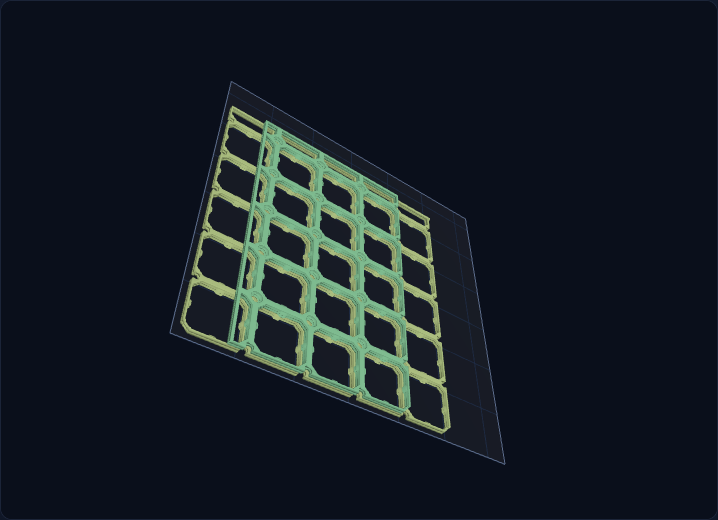
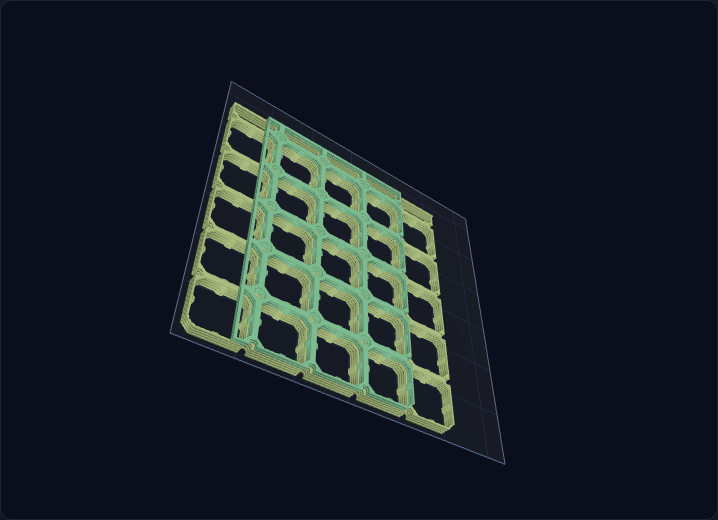
Canonicalize printable edge parts so identical 5x5 and 3x5 plates stack in one orientation

Changed region(s): [[0.2451, 0.1846, 0.6435, 0.8308]]

diff --git a/index.html b/index.html
@@ -1498,20 +1498,33 @@
   }
 
   function platePrintItems(layout) {
+    const unit = state.unit;
+    const canonical = new Map();
+    layout.pieces.forEach(function (p) {
+      if (!p.ext) return;
+      const key = sizeKey(p.w, p.h);
+      if (!canonical.has(key)) {
+        canonical.set(key, { left: p.ext.left, right: p.ext.right, top: p.ext.top, bottom: p.ext.bottom });
+      }
+    });
     return layout.pieces.map(function (p, i) {
+      const sides = p.ext ? canonical.get(sizeKey(p.w, p.h)) : null;
+      const printW = sides ? p.w * unit + sides.left + sides.right : p.w * unit;
+      const printH = sides ? p.h * unit + sides.top + sides.bottom : p.h * unit;
       return {
         id: i, a: p.w, b: p.h,
         cw: p.w,
         ch: p.h,
-        w: p.ext ? p.ext.wmm : p.w * state.unit,
-        h: p.ext ? p.ext.hmm : p.h * state.unit,
-        gx: p.ext ? p.ext.left : 0,
-        gy: p.ext ? p.ext.top : 0,
-        el: p.ext ? p.ext.left : 0,
-        er: p.ext ? p.ext.right : 0,
-        et: p.ext ? p.ext.top : 0,
-        eb: p.ext ? p.ext.bottom : 0,
+        w: printW,
+        h: printH,
+        gx: sides ? sides.left : 0,
+        gy: sides ? sides.top : 0,
+        el: sides ? sides.left : 0,
+        er: sides ? sides.right : 0,
+        et: sides ? sides.top : 0,
+        eb: sides ? sides.bottom : 0,
         piece: p,
+        printKey: sides ? edgeKeyFromSides(p.w, p.h, sides) : null,
         thickness: PLATE_THICKNESS[state.type] || 6.2,
         fixed: !!p.ext
       };
@@ -1593,6 +1606,36 @@
       }
     }
     return best;
+  }
+
+  function listLayerPlacements(stack, item, allowRotate) {
+    const unit = state.unit;
+    const candidates = allowRotate ? [0, 1, 2, 3, 4, 5, 6, 7] : [0];
+    const list = [];
+    for (let ci = 0; ci < candidates.length; ci++) {
+      const sym = candidates[ci];
+      const b = transformBounds(coreBounds(item), sym);
+      const rcw = (b.r - b.l) / unit;
+      const rch = (b.b - b.t) / unit;
+      if (rcw > stack.cw + 1e-6 || rch > stack.ch + 1e-6) continue;
+      const rangeX = Math.ceil(stack.cw) + 2;
+      const rangeY = Math.ceil(stack.ch) + 2;
+      const previous = stack.items.length ? stack.items[stack.items.length - 1] : null;
+      const below = previous ? { x: previous.dx, y: previous.dy, w: previous.w, h: previous.h } : { x: 0, y: 0, w: stack.w, h: stack.h };
+      for (let kx = -rangeX; kx <= rangeX; kx++) {
+        for (let ky = -rangeY; ky <= rangeY; ky++) {
+          const cx = stack.coreX + kx * unit;
+          const cy = stack.coreY + ky * unit;
+          const left = cx + b.l, right = cx + b.r;
+          const top = cy + b.t, bottom = cy + b.b;
+          if (left < -1e-6 || right > stack.w + 1e-6 || top < -1e-6 || bottom > stack.h + 1e-6) continue;
+          if (left < below.x - 1e-6 || right > below.x + below.w + 1e-6 || top < below.y - 1e-6 || bottom > below.y + below.h + 1e-6) continue;
+          const score = Math.pow((left + right) / 2 - stack.w / 2, 2) + Math.pow((top + bottom) / 2 - stack.h / 2, 2) + sym * 0.0001 + (kx + ky) * 0.00001;
+          list.push({ sym: sym, dx: left, dy: top, w: right - left, h: bottom - top, gx: -b.l, gy: -b.t, kx: kx, ky: ky, score: score });
+        }
+      }
+    }
+    return list.sort(function (a, b) { return a.score - b.score; });
   }
 
   function layerFromBest(item, best) {
@@ -2089,7 +2132,7 @@
               let z = 0;
               stack.items.forEach(function (pi) {
                 const piece = pi.item.piece;
-                const entry = piece.ext ? edgeMeshCache.get(edgeKey(piece)) : lib.get(sizeKey(piece.w, piece.h));
+                const entry = piece.ext ? edgeMeshCache.get(pi.item.printKey) : lib.get(sizeKey(piece.w, piece.h));
                 if (!entry) return;
                 const pw = pi.w || (pi.coreRot ? pi.item.h : pi.item.w);
                 const ph = pi.h || (pi.coreRot ? pi.item.w : pi.item.h);
@@ -2499,7 +2542,11 @@
 
   function edgeKey(piece) {
     const e = piece.ext;
-    return "edge:" + state.type + ":" + sizeKey(piece.w, piece.h) + ":" + round1(e.left) + "," + round1(e.right) + "," + round1(e.top) + "," + round1(e.bottom);
+    return edgeKeyFromSides(piece.w, piece.h, e);
+  }
+
+  function edgeKeyFromSides(w, h, e) {
+    return "edge:" + state.type + ":" + sizeKey(w, h) + ":" + round1(e.left) + "," + round1(e.right) + "," + round1(e.top) + "," + round1(e.bottom);
   }
 
   async function getPlateByKey(type, key) {
@@ -2655,7 +2702,7 @@
           stack.items.forEach(function (pi, layerIndex) {
             const piece = pi.item.piece;
             const baseKey = sizeKey(piece.w, piece.h);
-            const key = piece.ext ? edgeKey(piece) : baseKey;
+            const key = piece.ext ? pi.item.printKey : baseKey;
             const entry = piece.ext ? edgeMeshCache.get(key) : lib.get(baseKey);
             if (!entry) throw new Error("Plaque non chargée : " + key);
             if (!meshIndex.has(key)) {
@@ -3152,6 +3199,9 @@
     update: update,
     build3mfBlob: build3mfBlob,
     chooseLayerPlacement: chooseLayerPlacement,
+    makeBaseStack: makeBaseStack,
+    layerFromBest: layerFromBest,
+    listLayerPlacements: listLayerPlacements,
     edgeMeshes: edgeMeshCache,
     zipEntries: zipEntries,
     libraries: libraries

diff --git a/README.md b/README.md
@@ -22,7 +22,7 @@ Je précise que j'aime le système MultiBuild/MultiBoard et que ce n'est **pas u
 - Aperçu 2D avec le motif réel, les dimensions et les bords.
 - **Aperçu 3D** des maillages STL réels dans l'app (rotation/zoom), sans passer par Orca.
 - **Clips adhésifs S** (VHB Bolt-Lock) : choix « Aucun clip » / « Clips adhésifs S », comptage automatique **Quad / Dual / Single** aux angles des plaques, repères dans l'aperçu 2D, maillages réels dans la 3D, et ajout automatique sur les plateaux d'impression.
-- **Empilement « Ironing Stack »** : les plaques sont empilées dans le 3MF, la plus grande en bas, les plus petites au-dessus, avec un **espacement réglable (0,2 mm par défaut)**. L’algorithme cherche parmi les 8 symétries la position qui **conserve la grille de 50 mm et garde chaque couche entièrement dans la couche inférieure**, extensions de bord incluses. Les **origines de grille sont alignées sur la même trame de 50 mm** (pas un simple centrage) pour que les trous coïncident, et les plaques non carrées sont tournées dans le bon sens. Le slicer fait le reste ; active l'ironing des surfaces supérieures.
+- **Empilement « Ironing Stack »** : les plaques sont empilées dans le 3MF, la plus grande en bas, les plus petites au-dessus, avec un **espacement réglable (0,2 mm par défaut)**. L’algorithme cherche parmi les 8 symétries la position qui **conserve la grille de 50 mm et garde chaque couche entièrement dans la couche inférieure**, extensions de bord incluses. Les **origines de grille sont alignées sur la même trame de 50 mm** (pas un simple centrage) pour que les trous coïncident. Le **2D montre l’orientation de montage dans le tiroir** ; le **3DF/3MF impriment les pièces dans une orientation canonique identique** : les quatre 5×5 et les deux 3×5 sont les mêmes pièces, à tourner au montage si nécessaire. Le slicer fait le reste ; active l'ironing des surfaces supérieures.
 - Export **3MF projet multi-plateaux** Bambu Studio / OrcaSlicer.
 - Export CSV et copie de la liste.
 - Chargement automatique des plaques depuis un serveur local : pas d'import manuel.

diff --git a/tests/README.md b/tests/README.md
@@ -9,3 +9,5 @@ python3 tools/contact-sheet.py
 ```
 
 The report includes stack grid offsets and physical overhangs per layer.
+
+Note: a `max=6` case can legitimately fail when the base plate plus border exceeds the usable bed area; that is a physical constraint, not a stack/alignment failure.
